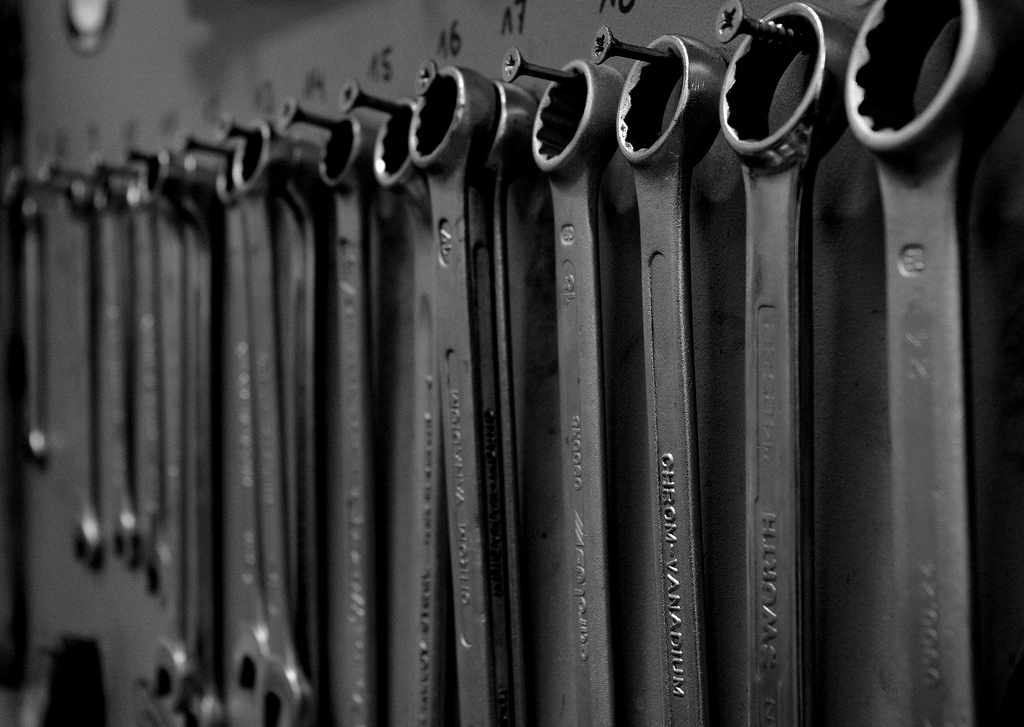
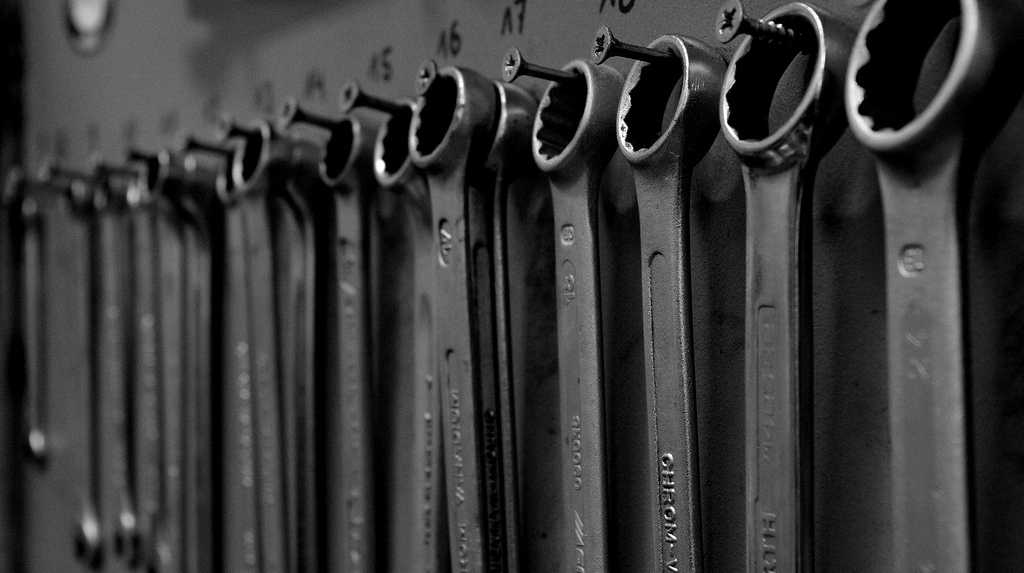
updated hero image to optimize

diff --git a/client/src/components/home/MainDiv.jsx b/client/src/components/home/MainDiv.jsx
@@ -13,7 +13,7 @@ class MainDiv extends Component {
         return (
             <MainContainer>
                 <br/>
-                <div><h2>Welcome to CarLog</h2> 
+                <div>
                     <p>An app to track the health of your car because nobody will care for your care as much as you!</p></div>
                     <h3>Please Select an Existing User</h3>
                     {this.props.users.map(user => {return (<Link key={user._id} to={`/user/${user.userName}`}>{user.userName}<br /></Link>)})}

diff --git a/client/src/components/home/HomePage.jsx b/client/src/components/home/HomePage.jsx
@@ -108,7 +108,7 @@ class HomePage extends Component {
                 handleSignUpSubmit={this.handleSignUpSubmit}
                 />}
                 />
-                <Parallax bgImage="../../../hero.jpg" strength={400}>
+                <Parallax bgImage="../../../hero-opt.jpg" strength={400}>
                     <HeroContainer />
                 </Parallax>
                 <MainDiv users={this.state.users}
